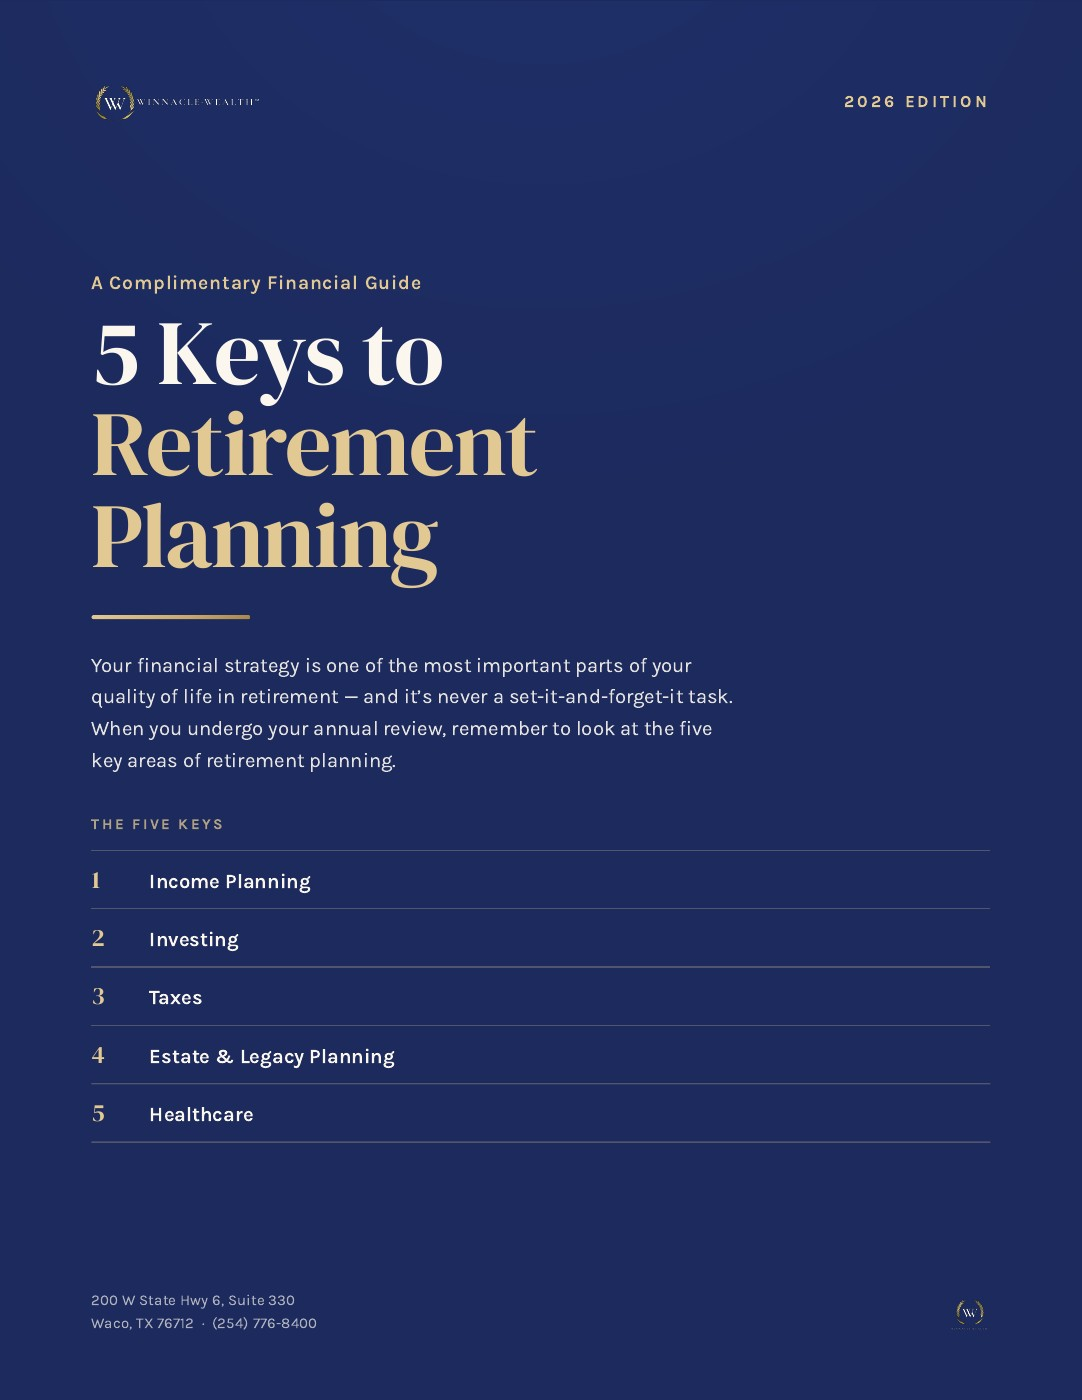
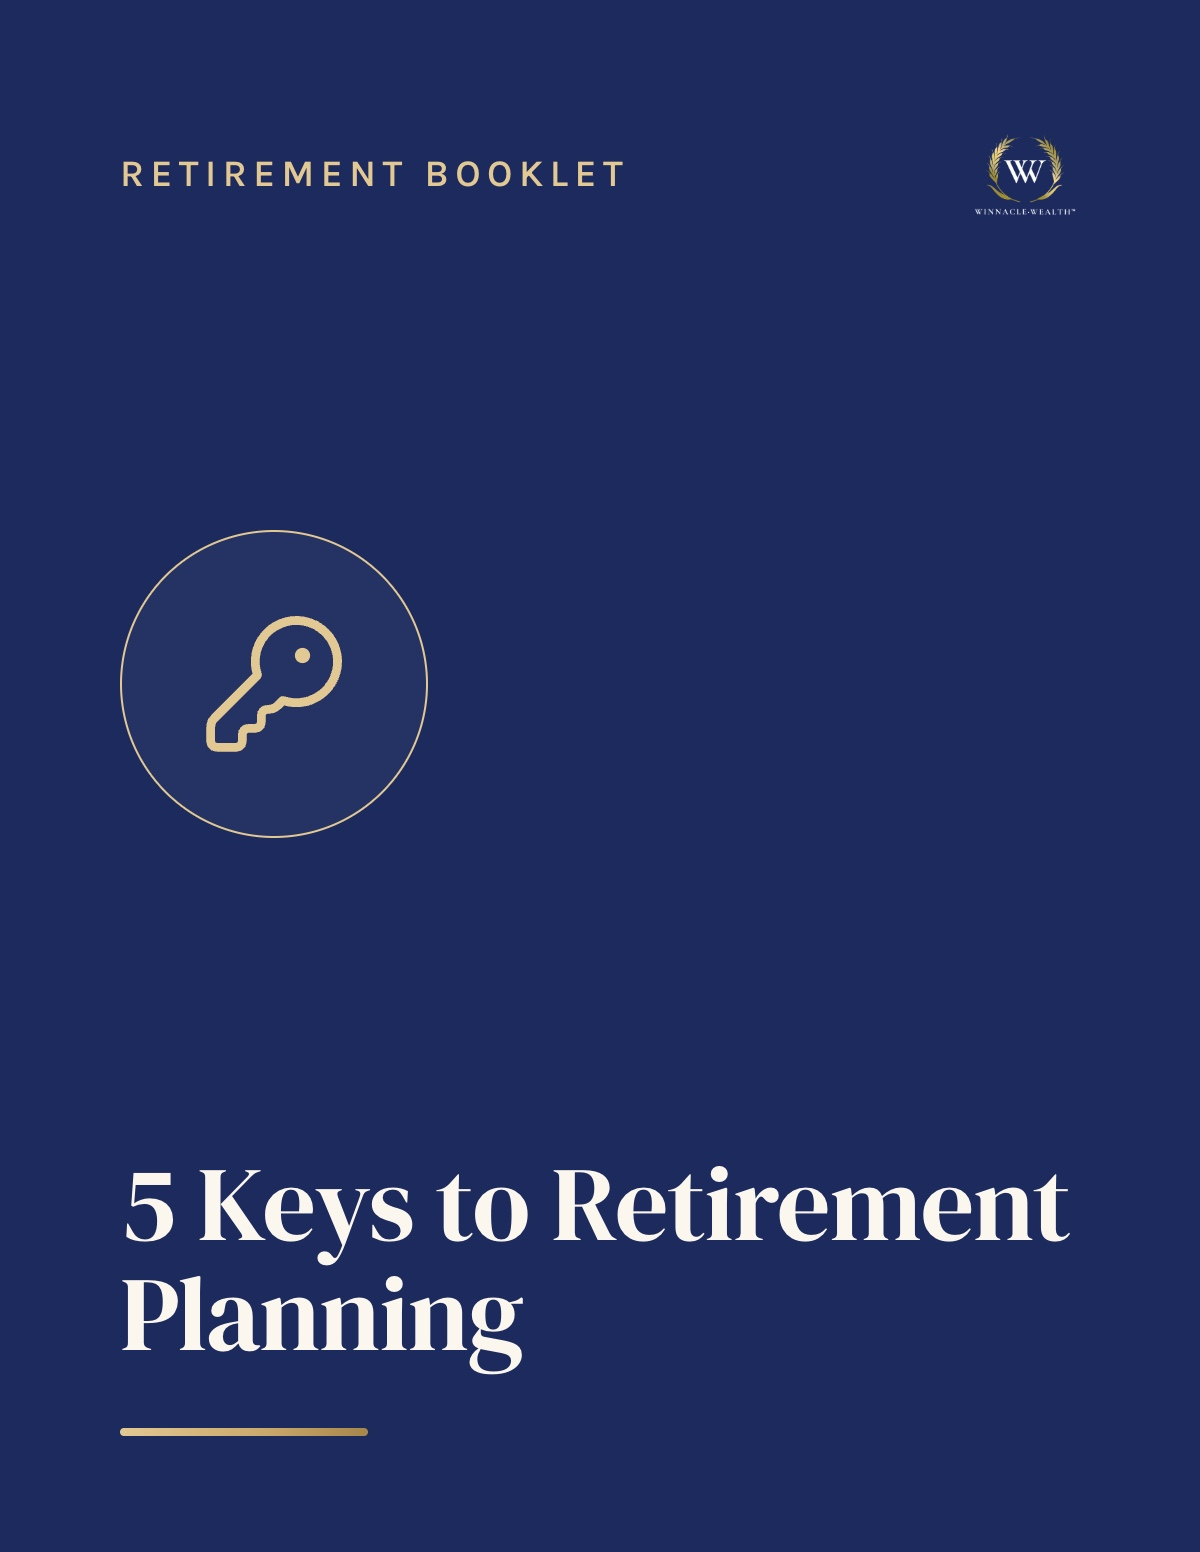
Replace ALICO photo; Events silos hero; designed guide thumbnails
- Homepage "Planning Built to Last": courthouse (replaces ALICO)
- Events: full-bleed Magnolia Silos hero (stats styled for photo); class card now shows Chad portrait (replaces ALICO)
- Swap all 11 guide covers for the designed branded thumbnails (auto-updates homepage, Resources, JustHer)

diff --git a/events.html b/events.html
@@ -53,7 +53,9 @@
   </nav>
 
   <!-- 01 Hero -->
-  <section class="sec">
+  <section class="sec photo-band photo-band--tall">
+    <img class="photo-band-bg" src="assets/waco-silos.jpg" alt="Magnolia Market at the Silos in downtown Waco at twilight" />
+    <div class="photo-band-scrim"></div>
     <div class="wrap">
       <h1>Most of Our Clients Met Us in a Classroom First.</h1>
       <hr class="rule-gold" />
@@ -66,14 +68,15 @@
         <div class="stat"><div class="n">0</div><div class="l">Sales pitches at our classes</div></div>
       </div>
     </div>
+    <div class="photo-stamp">Waco, Texas</div>
   </section>
 
   <!-- 02 Featured event -->
   <section class="sec band-tint">
     <div class="wrap">
       <div class="cols-2 cols-2-flip">
-        <div class="photo photo--duotone" style="aspect-ratio: 5/4;">
-          <img src="assets/photo-alico-golden.png" alt="Chad teaching at MCC" />
+        <div class="photo photo--full" style="aspect-ratio: 5/4;">
+          <img src="assets/photo-chad-brick-portrait.jpg" alt="Chad Castle, RICP, who teaches the Retire Ready class at MCC" style="object-position: center 18%;" />
         </div>
         <div class="card" style="padding: 32px;">
           <h3>Retire Ready · Two-Night Class at McLennan Community College.</h3>

diff --git a/site.css b/site.css
@@ -320,6 +320,10 @@ p { margin: 0 0 14px; }
 /* Taller variant for page heroes */
 .photo-band--tall { min-height: 540px; }
 .photo-band h1 { color: var(--ww-cream); }
+/* Stats overlaid on a photo band read light */
+.photo-band .stats { border-color: rgba(226,200,146,0.28); }
+.photo-band .stat .n { color: var(--ww-cream); }
+.photo-band .stat .l { color: rgba(251,247,238,0.82); }
 @media (max-width: 680px) {
   .photo-band { min-height: 400px; }
   .photo-band--tall { min-height: 460px; }

diff --git a/index.html b/index.html
@@ -112,7 +112,7 @@
           </div>
         </div>
         <div class="photo photo--duotone" style="aspect-ratio: 4/5;">
-          <img src="assets/photo-alico-golden.png" alt="ALICO Building at golden hour, Waco. A Central Texas landmark since 1911" />
+          <img src="assets/waco-courthouse.jpg" alt="The McLennan County Courthouse, a Central Texas landmark in Waco" />
         </div>
       </div>
     </div>
